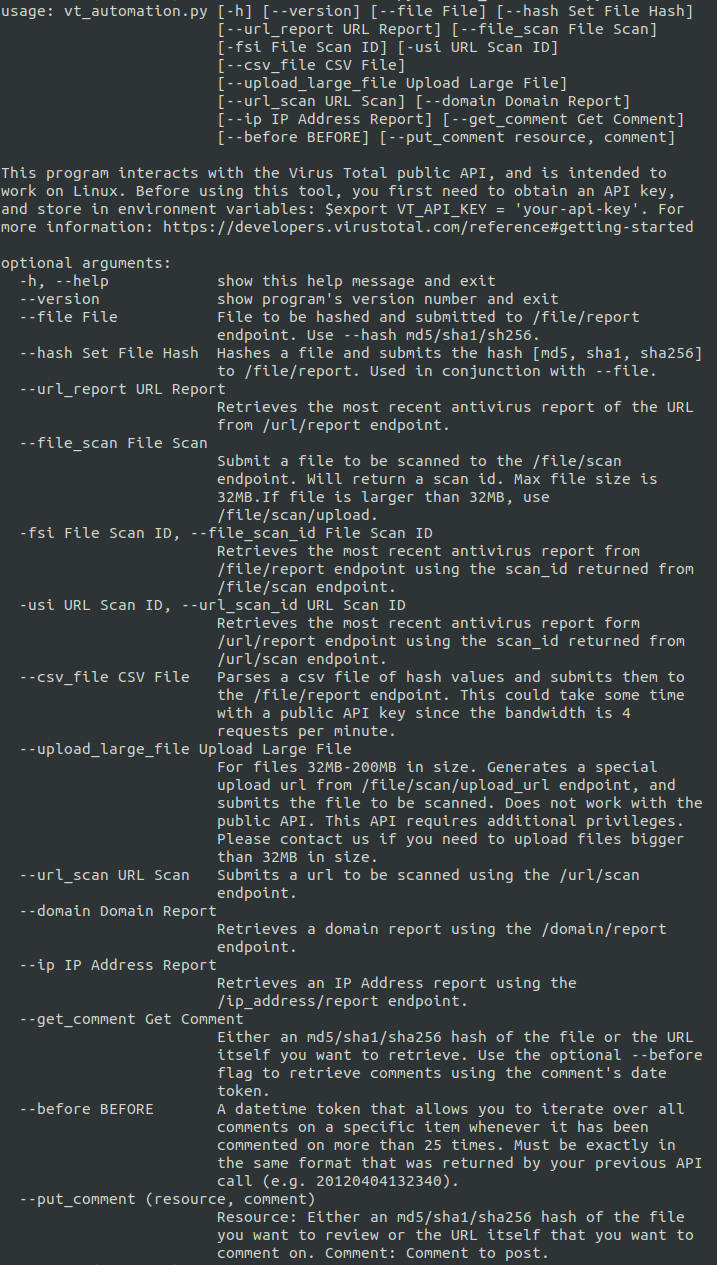
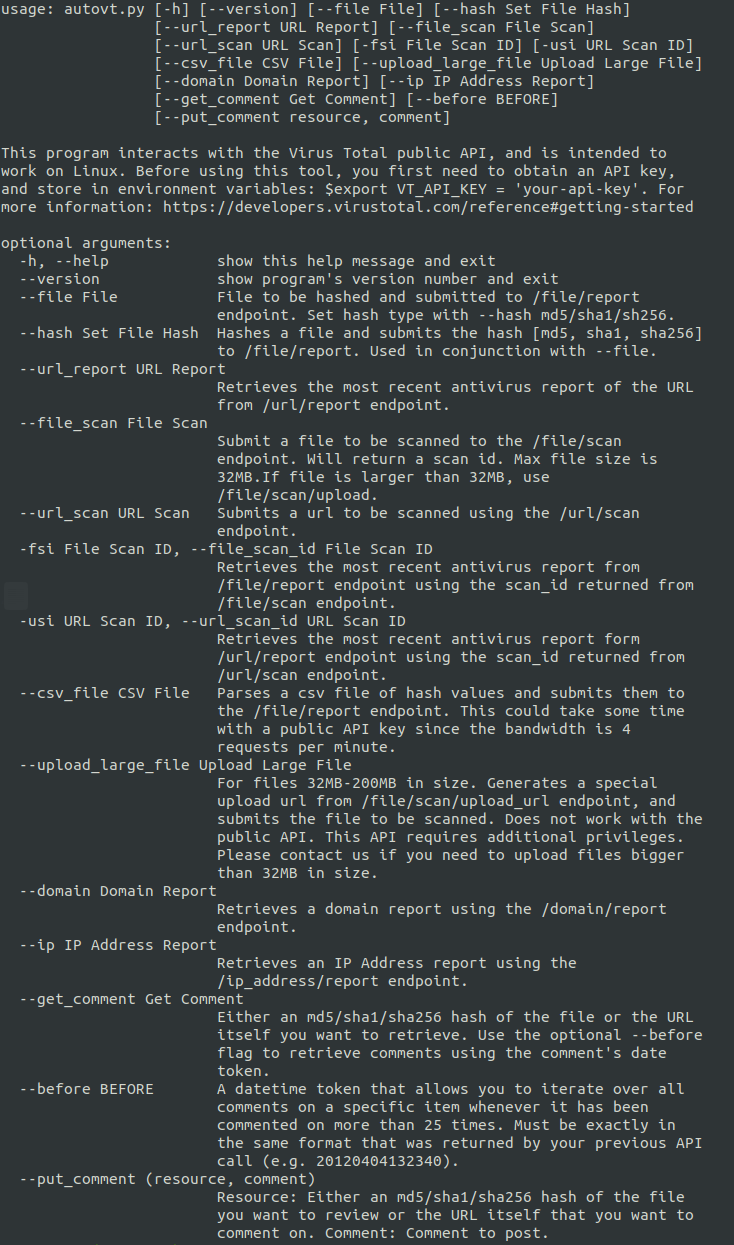
Update README.md.

diff --git a/parser.py b/parser.py
@@ -43,6 +43,13 @@ parser.add_argument(
     "If file is larger than 32MB, use /file/scan/upload.",
 )
 parser.add_argument(
+    "--url_scan",
+    metavar="URL Scan",
+    type=str,
+    required=False,
+    help="Submits a url to be scanned using the /url/scan endpoint.",
+)
+parser.add_argument(
     "-fsi",
     "--file_scan_id",
     metavar="File Scan ID",
@@ -76,13 +83,6 @@ parser.add_argument(
     help="For files 32MB-200MB in size. Generates a special upload url from /file/scan/upload_url endpoint, and "
     "submits the file to be scanned. Does not work with the public API. This API requires additional "
     "privileges. Please contact us if you need to upload files bigger than 32MB in size.",
-)
-parser.add_argument(
-    "--url_scan",
-    metavar="URL Scan",
-    type=str,
-    required=False,
-    help="Submits a url to be scanned using the /url/scan endpoint.",
 )
 parser.add_argument(
     "--domain",

diff --git a/autovt.py b/autovt.py
@@ -141,10 +141,10 @@ def get_file_upload_url(endpoint, api_key, file):
     # Scan using the upload url
     scan_response = ""
     try:
-        scan_response = requests.post(upload_url, files)
+        scan_response = requests.post(upload_url, files=files)
         scan_response.raise_for_status()
     except HTTPError as e:
-        print("Status Code: {}, Exception: {}".format(response.status_code, str(e)))
+        print("Exception: {}, {}".format(response.raise_for_status(), str(e)))
 
     return scan_response.text
 

diff --git a/README.md b/README.md
@@ -27,19 +27,121 @@ utils>utils.py>create_dir()
 	<img src="/images/results.png">
 </p>
 
-### Usage
+### API Endpoints and Usage:
+* To start, you can display the usage by running the program with no arguments, or with the -h flag.  A screenshot of the usage display is at the bottom of this section.
 
 ```
-python autovt.py -h
+python3 autovt.py -h
+```
+
+#### [/file/report/](https://developers.virustotal.com/reference#file-report)
+* Retrieves a file scan report by a supplied MD5, SHA-1, or SHA-256 hash of a file. You can also look up a report by a scan\_id returned byt the **/file/scan** endpoint.
+* To check if a local file has already been reported on Virus Total, you can use the --file flag to pass a file, and the --hash  flag to choose the hashing algorithm.
+
+```
+python3 autovt.py --file /path/to/file --hash sha256
+```
+
+* You can also lookup the report of a previously scanned file.
+
+```
+python3 autovt.py --file_scan_id 919f7c754991dfd5bd17f195dcda393baa9180309fa7d20b9c3fe0f303a3acfc-1599110772
+```
+
+#### [/file/scan](https://developers.virustotal.com/reference#file-scan)
+* This endpoint allows you to send a file for scanning with Virus Total, and returns a report with a scan id.
+* Max file size is 32MB.
+* Public API limit is 4 requests per minute.
+
+```
+python3 autovt.py --file_scan /path/to/file
+```
+
+#### [/file/scan/upload\_url](https://developers.virustotal.com/reference#file-scan-upload-url)
+* This endpoint is for use with a Private API key only, and is currently untested.
+* Creates a request to generate a special upload url, and submits the file to be uploaded.
+* Max file size is 200MB.
+
+```
+python3 autovt.py --upload_large_file /path/to/file
+```
+
+#### [/url/report](https://developers.virustotal.com/reference#url-report)
+* Retrieves a URL scan report from Virus Total.
+
+```
+python3 autovt.py --url_report url-to-lookup
+```
+
+* You can also lookup the report of a previously scanned url by using the scan id returned from /url/scan.
+
+```
+python3 autovt.py --url_scan_id 1db0ad7dbcec0676710ea0eaacd35d5e471d3e11944d53bcbd31f0cbd11bce31-1599111923
+```
+
+#### [/url/scan](https://developers.virustotal.com/reference#url-scan)
+* Scans a URL with Virus Total.
+
+```
+python3 autovt.py --url_scan url-to-scan
+```
+
+#### [/domain/report](https://developers.virustotal.com/reference#domain-report)
+* Retrieves a report on a domain name from Virus Total.
+
+```
+python3 autovt.py --domain domain-name
+```
+
+#### [/ip-address/report](https://developers.virustotal.com/reference#ip-address-report)
+* Retrieves a report for an IP address from Virus Total.
+
+```
+python3 autovt.py --ip ip-address
+```
+
+#### [/comments/get](https://developers.virustotal.com/reference#comments-get)
+* Retrieves the comments for a specific file or URL.
+* This flag takes either an MD5/SHA1/SHA256 hash value, or the URL itself.
+
+The server answers with up to 25 comments for specific report.  If there are less than 25 comments, then all of the comments have been returned.  If there are 25 comments returned, then you can use the optional --before flag to list a comment's date token, which should be the oldest (last in the list) comment.  The date token must be exact, in the form (20200405132340).
+
+```
+python3 autovt.py --get_comment b1e10cab59f21754b9d9e1dce41b16d7
+
+or 
+
+python3 autovt.py --get_comment b1e10cab59f21754b9d9e1dce41b16d7 --before 20200405132340
+```
+
+#### [/comment/put](https://developers.virustotal.com/reference#comments-put)
+* Allows you to post a comment for a file or URL.
+* This flag takes 2 paramaters (resource, comment)
+* resource: Either an MD5, SHA1, or SHA255 hash of the file you want to review, or the URL to the report.
+* comment: The comment you want to post.
+
+Currently this flag only allows for a short comment passed in as an argument.  This will be updated to allow a more detailed comment to be passed in via a file.  Review the documentation for guidlines on commenting [here](https://support.virustotal.com/hc/en-us/articles/115002146769-Vote-comment).
+
+```
+python3 autovt.py --put_comment "This comment is just a test of the API endpoint."
 ```
 
 <p align="center">
 	<img src="/images/usage.png">
 </p>
 
+
 ## Development
 This project is still in development, and is currently being worked on.
 
 I would *love* to hear what you think about **AutoVT** on the [issues page](https://github.com/cjcrist/AutoVT/issues). 
 
-Make pull requests, report bugs, suggest ideas, and discuss **AutoVT**.
+Make pull requests, report bugs, suggest ideas or features, and discuss **AutoVT**.
+
+## TODO's
+As this project is still in development, there are a few features and upgrades to be made.
+
+* Add functionality to pass in hash values, scan ids, or urls via a csv file to look up reports in Virus Total.
+* Add functionality to pass multiple arguments via the command line to scan files/urls and retrieve reports.
+* Add option to scan url if no report is found.
+* Load balance requests to API, as public API keys are limited to 4 request per minute.
